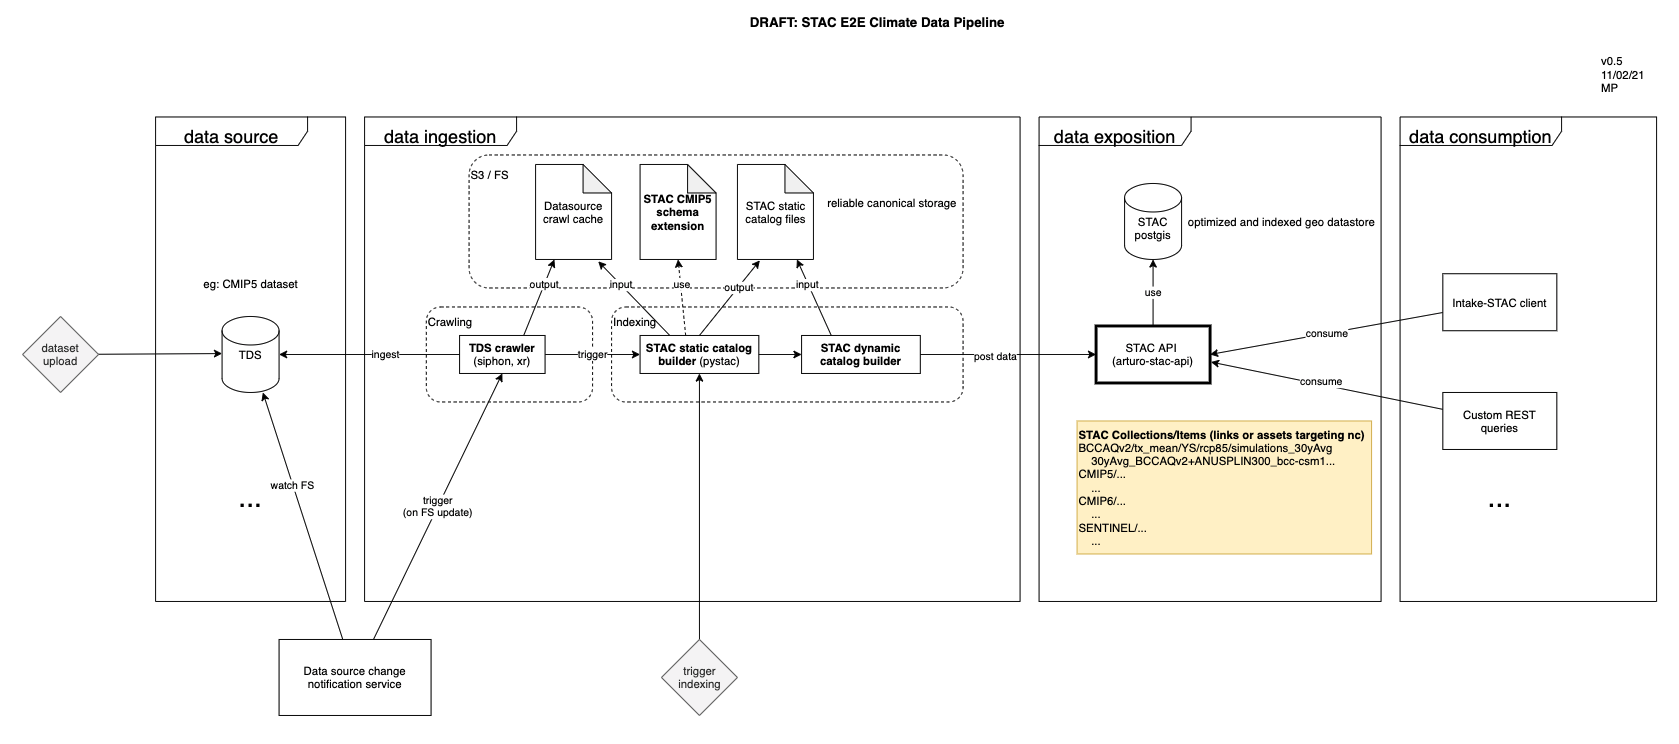
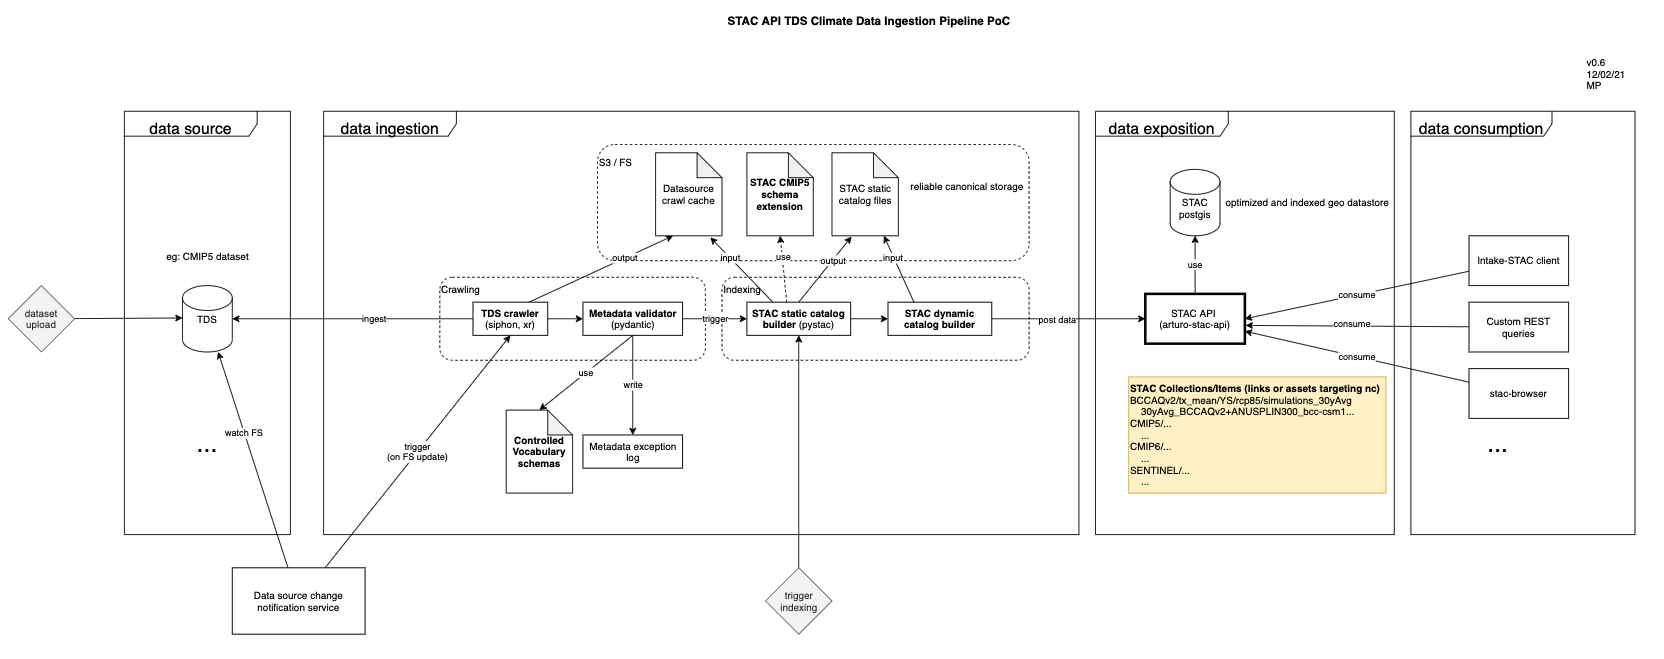
readme

diff --git a/catalog/stac_ingestion/README.md b/catalog/stac_ingestion/README.md
@@ -1,4 +1,4 @@
-# STAC API TDS Climate Data Ingestion PoC
+# STAC API TDS Climate Data Ingestion Pipeline PoC
 
 ## High level pipeline view
 
